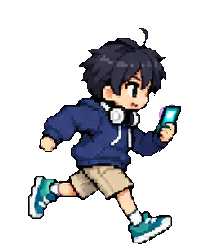
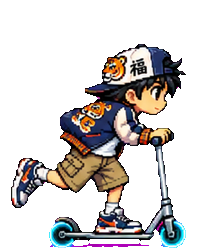
R1: 戦闘の主人公を新しい絵にした
Claude-Session: https://claude.ai/code/session_01EZj3hfe8J9XMfVPxeC33U6

diff --git a/autodev/ROADMAP.md b/autodev/ROADMAP.md
@@ -6,7 +6,7 @@
 
 ## つぎにやること
 
-- [ ] R1 | 戦闘の主人公を新しい絵にする | v5/assets/ryosei の中身が ryosei_v3（4x4・同じ並び）に入れ替わり、前の絵は v5/assets/ryosei_v2 に残る。戦闘画面のスクショに新しい主人公が出る
+- [x] R1 | 戦闘の主人公を新しい絵にする | v5/assets/ryosei の中身が ryosei_v3（4x4・同じ並び）に入れ替わり、前の絵は v5/assets/ryosei_v2 に残る。戦闘画面のスクショに新しい主人公が出る
 - [ ] R2 | 町はキックボード、建物の中は歩きにする | 屋外マップでは hero_ride で歩きの1.35倍の速さ、屋内マップでは hero_walk_v3 で、どちらも4方向に動く。debugWarp で町と部屋を行き来したスクショ2枚
 - [ ] R3 | タイトルの横切りと、部屋の「たたみなさい」 | タイトル画面で主人公がキックボードで横切る。自分の部屋に初めて入った時だけ、おかあさんの声「いえの なかでは キックボード たたみなさい」が出る（2回目は出ない）
 - [ ] R4 | 1章のデータを v5/data/ch1.js に移す | ch1.js が RYW.registerChapter を1回呼び、index.html がエンジンの後に読む。中身は変えない。SPEC_V5.md の1章の通しが前と同じに通る

diff --git a/autodev/last_run.md b/autodev/last_run.md
@@ -1,3 +1,5 @@
-- 試運転: 自動確認から合流までの通り道を確かめた
-次: R1 戦闘の主人公を新しい絵にする
-時刻: 2026-10-09 17:45
+- 戦闘の主人公の絵を ryosei_v3 に入れ替え、前の絵を ryosei_v2 に残した
+- 絵の入れ替えを調べるテストを tools/test_v5.cjs に1つ足した
+- 部屋のはじまりの場面も新しい絵になる。部屋の絵は R2 と R3 で決める
+次: R2 町はキックボード、建物の中は歩きにする
+時刻: 2026-10-09 17:53
